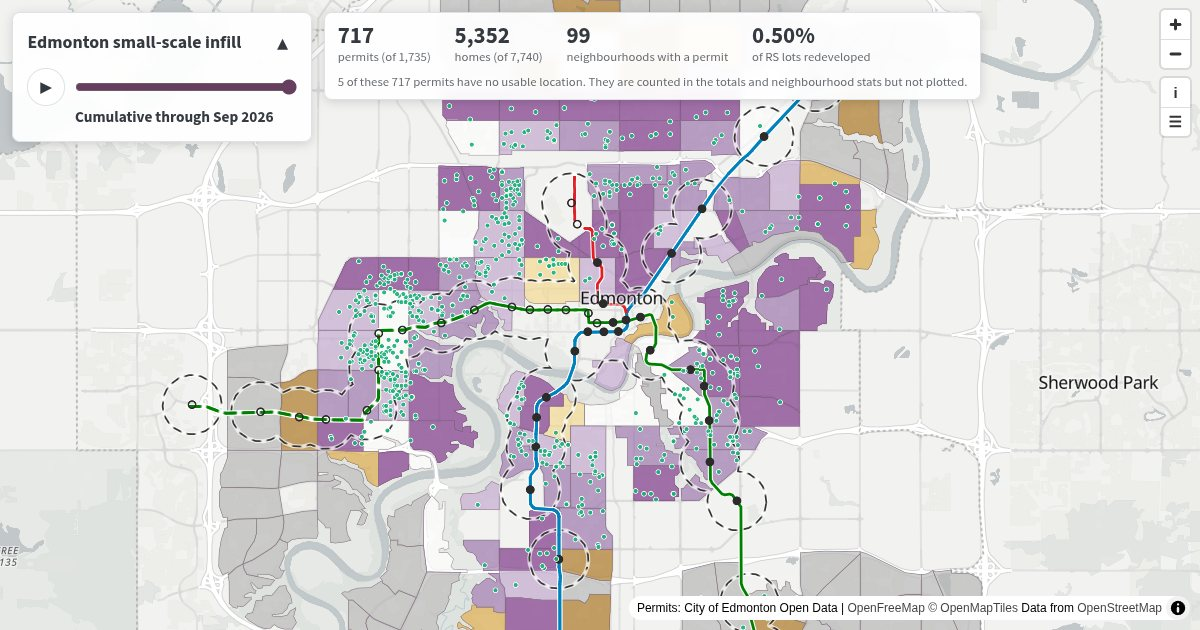
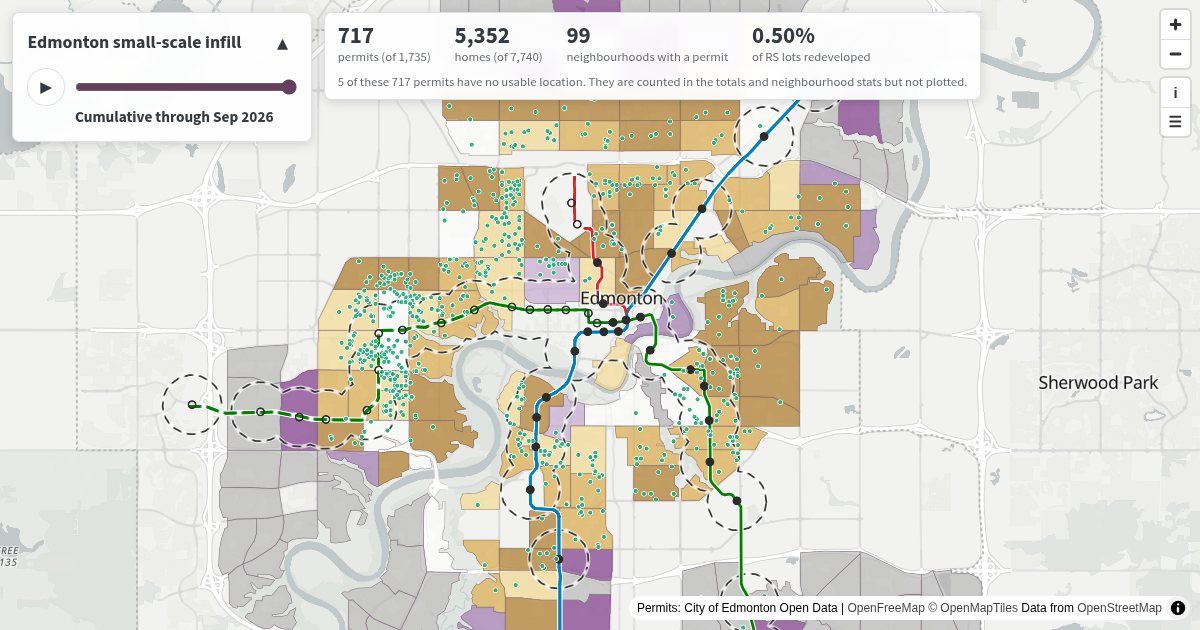
swap palette

diff --git a/projects/infill-map/infill-map.js b/projects/infill-map/infill-map.js
@@ -10,9 +10,9 @@
     light: {
       types: ['#2a78d6', '#eb6834', '#1baf7a'],
       ring: '#ffffff',
-      // Diverging, purple (decline) to gold (growth) with a white midpoint. Not green, which
-      // would collide with the aqua Fiveplex dots.
-      div: ['#762a83', '#9970ab', '#c2a5cf', '#ffffff', '#f3d98c', '#d9a441', '#a8701a'],
+      // Diverging, gold (decline) to purple (growth) with a white midpoint. Not green, which
+      // would collide with the aqua Fiveplex dots. Ordered by increasing population change.
+      div: ['#a8701a', '#d9a441', '#f3d98c', '#ffffff', '#c2a5cf', '#9970ab', '#762a83'],
       nodata: '#b5b5b5',
       fillOpacity: 0.65,
       line: '#8a7886',
@@ -23,7 +23,7 @@
     dark: {
       types: ['#3987e5', '#d95926', '#199e70'],
       ring: '#1b1b1b',
-      div: ['#8a3fa8', '#a86bc4', '#cfa8de', '#ffffff', '#f3e3a0', '#e6cf5a', '#c4ad1f'],
+      div: ['#c4ad1f', '#e6cf5a', '#f3e3a0', '#ffffff', '#cfa8de', '#a86bc4', '#8a3fa8'],
       nodata: '#555555',
       fillOpacity: 0.7,
       line: '#8f7c8b',
